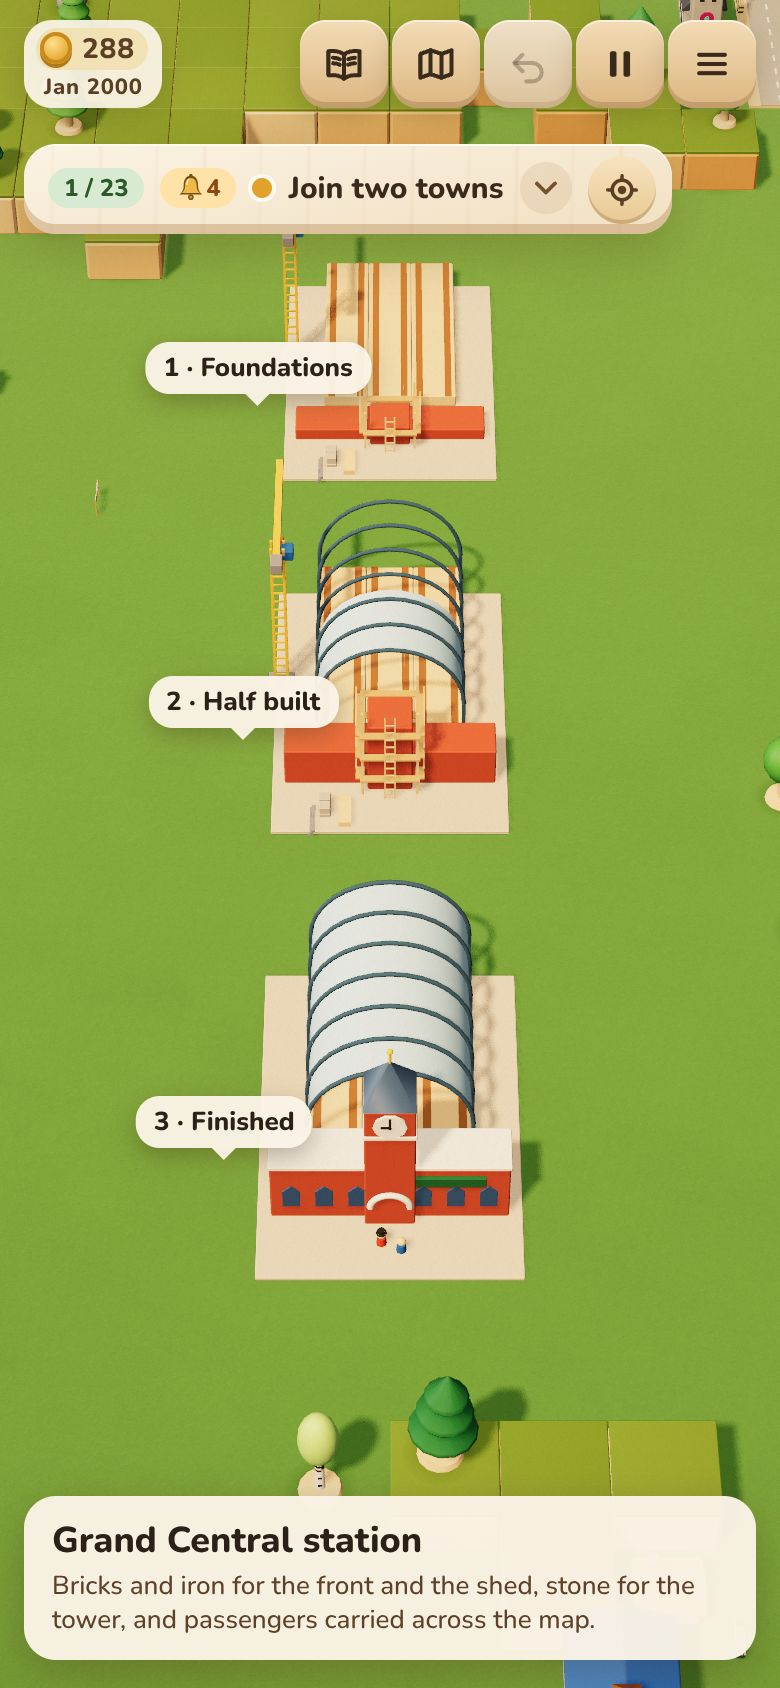
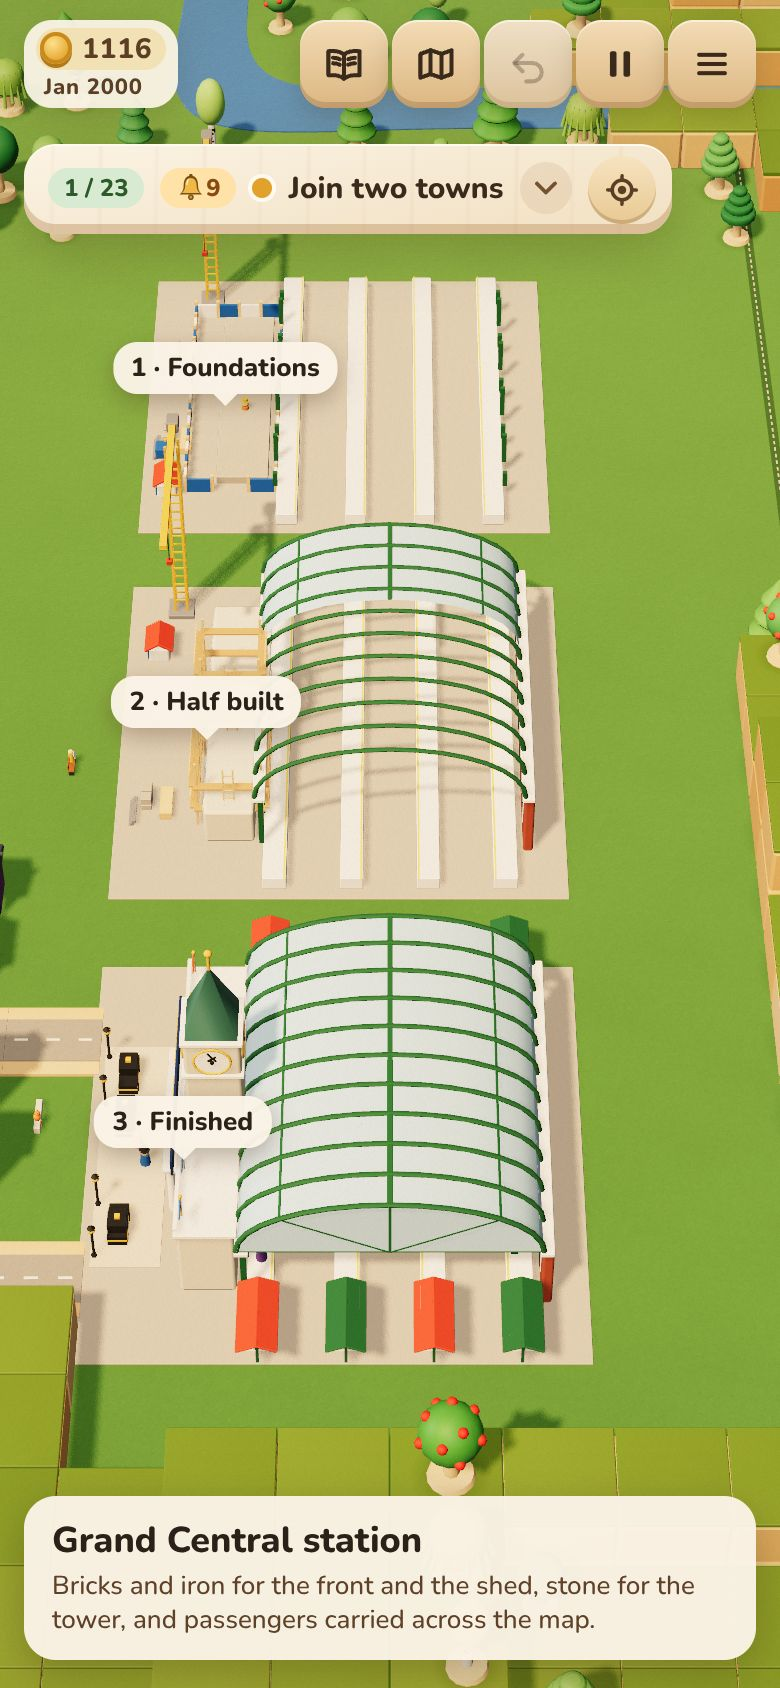
Grand Central as a grand through station, with trains running through it
Reworked in the town buildings' style: three tracks run along x through an
arched glass shed on green ironwork (open below its end screens, nothing
within 24 mm of a track centre), four platforms with pitched canopies,
benches and departure boards; a stone building alongside with columns, a
great arched entrance, GRAND CENTRAL in gold block letters, flags and a
clock tower with four faces; a forecourt with cabs and lamps. Stages
4,644 / 6,648 / 13,972 triangles (budget 14,000).

Shots (tools/shots/design-assets.mjs ONLY=central): real track laid
through it, two trains passing, a close-up, the platforms' end, in a city,
and its stages. npm test: 5404 passed.

Claude-Session: https://claude.ai/code/session_0121cKbiwrDuQSgNuQBEys2q

diff --git a/src/catalogue/assets/grand.ts b/src/catalogue/assets/grand.ts
@@ -492,59 +492,194 @@ function royalTrain(k: Kit, stage: Stage): Object3D {
   return g;
 }
 
-// ——— Grand Central: a station front with a clock tower, an arched train shed behind ———
+// ——— Grand Central: a through station, three tracks through a glass train shed, the station building alongside ———
+
+/**
+ * The tracks' centres across the shed (z), 60 apart: real track runs through along x (the model leaves room for it:
+ * nothing stands within 24 mm of a centre below the shed's springing), so trains drive in one end and out the other.
+ */
+export const CENTRAL_TRACKS = [-60, 0, 60] as const;
+/** The shed's length along x, and how far its platforms run past it either end. */
+const SHED = 260;
+const PLAT = 340;
+/** Platform tops: the town platforms' height (bldg_parts.py `platform`, 13 above the felt). */
+const PLAT_H = 14;
+
+/** Block letters, 4 × 5, by rows top down ('#' a block): enough for the station's name board. */
+const FONT: Record<string, string[]> = {
+  G: [".###", "#...", "#.##", "#..#", ".###"],
+  R: ["###.", "#..#", "###.", "#.#.", "#..#"],
+  A: [".##.", "#..#", "####", "#..#", "#..#"],
+  N: ["#..#", "##.#", "#.##", "#..#", "#..#"],
+  D: ["###.", "#..#", "#..#", "#..#", "###."],
+  C: [".###", "#...", "#...", "#...", ".###"],
+  E: ["####", "#...", "###.", "#...", "####"],
+  T: ["####", ".#..", ".#..", ".#..", ".#.."],
+  L: ["#...", "#...", "#...", "#...", "####"],
+};
+
+/** `text` in gold block letters on a wall facing +z, centred on x, its baseline at y; `px` the size of a block. */
+function goldLetters(k: Kit, text: string, x: number, y: number, z: number, px = 2.2): Group {
+  const g = new Group();
+  const gold = k.paint("#e3b23c");
+  const w = text.length * 5 * px - px;
+  let cx = x - w / 2;
+  for (const ch of text) {
+    const rows = FONT[ch];
+    if (rows)
+      rows.forEach((row, r) => {
+        // Each run of blocks in a row is one box.
+        for (let c = 0; c < 4; ) {
+          if (row[c] !== "#") {
+            c++;
+            continue;
+          }
+          let e = c;
+          while (e < 4 && row[e] === "#") e++;
+          g.add(k.box(gold, (e - c) * px, px, 1.2, 0, cx + ((c + e) / 2) * px, y + (4 - r) * px, z));
+          c = e;
+        }
+      });
+    cx += 5 * px;
+  }
+  return g;
+}
+
+/** A clock face facing +x at (x, y, z): a cream face, a gold rim, black hands at ten to two. */
+function clockFace(k: Kit, r: number, x: number, y: number, z: number, ry = 0): Group {
+  const g = new Group();
+  g.add(k.cylX(k.paint(FRAME), r, 1.6, 0, 0, 0, 16), k.at(k.ring(k.paint("#e3b23c"), r, 1, 0, 0, 0, true), 0.8, 0, 0, Math.PI / 2));
+  const minute = k.box(k.paint(TOY.black), 1, r * 0.8, 1.2, 0, 1.2, 0, 0);
+  minute.geometry.translate(0, r * 0.4 - (r * 0.8) / 2, 0);
+  minute.rotation.x = 0.6;
+  const hour = k.box(k.paint(TOY.black), 1, r * 0.55, 1.4, 0, 1.2, 0, 0);
+  hour.geometry.translate(0, r * 0.27 - (r * 0.55) / 2, 0);
+  hour.rotation.x = -0.9;
+  g.add(minute, hour, k.cylX(k.paint(TOY.black), 1.4, 2, 1.4, 0, 0, 8));
+  return k.at(g, x, y, z, ry);
+}
+
+/** A toy cab: a black body with a yellow band, a roof light, four wheels; facing +x. */
+function cab(k: Kit, x: number, z: number, ry = 0): Group {
+  const g = new Group();
+  g.add(k.box(k.paint(TOY.black), 30, 9, 14, 0, 0, 3, 0), k.box(k.paint(TOY.black), 16, 8, 13, 0, -3, 12, 0));
+  g.add(k.box(k.paint(TOY.yellow), 30.4, 2, 14.4, 0, 0, 7, 0), k.box(k.paint(TOY.yellow), 4, 2, 4, 0, -3, 20, 0));
+  for (const s of [-1, 1]) g.add(k.box(k.paint("#2b3644"), 13, 5, 0.6, 0, -3, 13.5, s * 6.8));
+  for (const wx of [-9, 9]) for (const s of [-1, 1]) g.add(k.cylZ(k.paint("#2a2b2e"), 3.6, 2, wx, 3.6, s * 6.4, 10));
+  return k.at(g, x, 0, z, ry);
+}
+
+/** A station bench, facing +z. */
+function bench(k: Kit, x: number, y: number, z: number, ry = 0): Group {
+  const g = new Group();
+  g.add(k.box(k.wood, 14, 1.4, 5, 0, 0, 5, 0), k.box(k.wood, 14, 5, 1.2, 0, 0, 6.4, -2.4));
+  for (const s of [-1, 1]) g.add(k.box(k.paint(IRON), 1.2, 5, 5, 0, s * 6, 0, 0));
+  return k.at(g, x, y, z, ry);
+}
+
+/** A departure board on two posts: dark, with lines in amber. */
+function departures(k: Kit, x: number, y: number, z: number): Group {
+  const g = new Group();
+  for (const s of [-1, 1]) g.add(k.box(k.paint(IRON), 1.6, 24, 1.6, 0, 0, 0, s * 9));
+  g.add(k.box(k.paint("#1d2430"), 3, 12, 22, 0, 0, 22, 0));
+  for (let i = 0; i < 3; i++) for (const s of [-1, 1]) g.add(k.box(k.paint("#f2b233"), 3.4, 1.2, 8, 0, 0, 25 + i * 3, s * 5));
+  return k.at(g, x, y, z);
+}
 
 function grandCentral(k: Kit, stage: Stage): Object3D {
   const g = new Group();
-  const pane = k.paint(GLASS);
-  const brick = k.paint("#b5553c");
-  const stone = k.paint(TOY.cream);
-  const iron = k.paint("#3e5f78");
-  const SHED = 200;
-  const SW = 120;
-  g.add(plinth(k, SHED + 80, SW + 70, 4, -30, 0, "#cdbfa8"));
-  // Three tracks run through the shed along x (slabs: the real pieces would sit here).
-  for (const z of [-40, 0, 40]) g.add(k.trackSlab(SHED, -SHED / 2 + 10, 4, z));
-  for (const z of [-20, 20]) g.add(k.box(stone, SHED - 20, 8, 16, 1, -SHED / 2 + 20, 4, z));
-  // The front building across the tracks' ends (facing +x), the clock tower in the middle.
-  const FH = stage === 1 ? 12 : stage === 2 ? 36 : 54;
-  const fx = 40;
-  g.add(k.box(brick, 34, FH, SW + 50, 1.5, fx, 4, 0));
-  const TH = stage === 1 ? 20 : stage === 2 ? 70 : 128;
-  g.add(k.box(brick, 36, TH, 36, 1.5, fx + 6, 4, 0));
-  if (stage === 3) {
-    g.add(k.box(stone, 36, 4, SW + 52, 1, fx, 4 + FH, 0));
-    for (let i = 0; i < 7; i++) {
-      const z = -SW / 2 - 10 + i * ((SW + 20) / 6);
-      if (Math.abs(z) < 22) continue;
-      g.add(k.extrude(k.paint("#3d5d86"), [[-6, 0], [6, 0], [6, 16], [0, 22], [-6, 16]], 2, 0, 0, 0, 0.3).rotateY(Math.PI / 2).translateZ(fx + 17).translateY(18).translateX(-z));
-    }
-    // The tower: clock faces, a stone band, a pyramid roof and a gilt finial.
-    g.add(k.box(stone, 38, 4, 38, 1, fx + 6, 4 + TH - 30, 0));
-    const clock = new Group();
-    clock.add(k.cylX(stone, 12, 2, 0, 0, 0, 20), k.cylX(k.paint(TOY.black), 1.2, 3, 0.4, 0, 0, 8));
-    clock.add(named(k.box(k.paint(TOY.black), 1, 10, 1.6, 0, 1.6, 0, 0), "minute"));
-    clock.add(named(k.box(k.paint(TOY.black), 1, 1.6, 7, 0, 1.6, 0, 3), "hour"));
-    g.add(k.at(clock, fx + 25, 4 + TH - 14, 0));
-    g.add(k.cone(k.paint("#4f6a8a"), 26, 34, fx + 6, 4 + TH, 0, 4).rotateY(Math.PI / 4));
-    g.add(k.cyl(k.paint(TOY.yellow), 1, 10, fx + 6, 4 + TH + 32, 0, 1, 6), k.ball(k.paint(TOY.yellow), 2.4, fx + 6, 4 + TH + 44, 0));
-    // The great arch over the entrance, and the sign.
-    g.add(k.at(k.ring(stone, 14, 2.6, 0, 0, 0, true, Math.PI), fx + 25, 4 + 22, 0, Math.PI / 2));
-    g.add(k.box(k.paint(TOY.green), 4, 10, 60, 1, fx + 18, 4 + FH - 16, -SW / 2 + 22));
-    g.add(k.peg(TOY.red, TOY.black, fx + 40, 0, 6), k.peg(TOY.blue, null, fx + 46, 0, -8));
-  } else {
-    g.add(scaffold(k, 44, 44, TH + 24, fx + 6, 0));
-    g.add(towerCrane(k, 150, 120, -60, SW / 2 + 30, Math.PI));
-    g.add(goodsStacks(k, fx + 50, 50));
+  const stone = k.paint("#e2d8c4");
+  const trim = k.paint(FRAME);
+  const iron = k.paint(IRON);
+  const brick = k.paint("#a8553a");
+  const SPRING = 62; // the shed's sides: trains (about 50 tall) run under its ends' glass screens
+  const SW = 210; // the shed's span across z
+  const BZ = SW / 2 + 22; // the building's middle (z), alongside the shed
+  // The ground: a stone step under the whole of it, the forecourt beyond the building.
+  g.add(k.box(k.paint(STONE), PLAT + 20, 2, SW + 150, 0.8, 0, 0, 40));
+  // Platforms between and beside the tracks (none on a track: they stop 21 short of each centre).
+  const platZ = [-90.5, -30, 30, 90.5];
+  const platW = [19, 18, 18, 19];
+  platZ.forEach((z, i) => g.add(k.box(trim, PLAT, PLAT_H - 2, platW[i], 1, 0, 2, z), k.box(k.paint("#f2d34a"), PLAT, 0.6, 1.4, 0, 0, PLAT_H, z + (z < 0 ? platW[i] / 2 - 1.6 : -(platW[i] / 2 - 1.6)))));
+  if (stage === 1) {
+    // The platforms laid, the shed's columns started, the building's footings; a fence round the building side.
+    for (let i = 0; i <= 8; i++) for (const s of [-1, 1]) g.add(k.box(iron, 4, i % 2 ? 30 : 14, 4, 0, -SHED / 2 + (SHED * i) / 8, PLAT_H, s * (SW / 2 - 4)));
+    g.add(k.box(k.paint(STONE), 230, 8, 46, 1, 0, 2, BZ + 4));
+    g.add(siteFence(k, 250, 80, 0, BZ + 14));
+    g.add(goodsStacks(k, -60, BZ + 70), goodsStacks(k, 60, BZ + 70), siteHut(k, 120, BZ + 70));
+    g.add(towerCrane(k, 160, 140, -150, BZ + 40, 0));
+    g.add(k.peg(TOY.orange, TOY.yellow, 20, 2, BZ + 4), k.peg(TOY.orange, TOY.yellow, -30, 2, BZ + 10));
+    return g;
   }
-  // The train shed: iron ribs, glass over what's done.
-  if (stage >= 2) {
-    const top = 4 + 34;
-    for (const s of [-1, 1]) for (let i = 0; i <= 6; i++) g.add(stick(k, iron, 3, 34, 3, -SHED + 20 + (i * (SHED - 20)) / 6, 4, (s * SW) / 2));
-    g.add(ribs(k, iron, SW / 2, SHED - 20, 7, -SHED / 2 + 10, top, 0, 1.8));
-    const done = stage === 3 ? SHED - 20 : (SHED - 20) * 0.4;
-    g.add(vault(k, pane, SW / 2 - 1, done, -SHED / 2 + 10 + (SHED - 20) / 2 - done / 2, top, 0, 14));
+  // The shed's sides: a brick wall on the far side with arched windows, iron columns on the building side.
+  g.add(k.box(brick, SHED, SPRING - 2, 8, 2, 0, 2, -SW / 2 - 4));
+  for (let i = 0; i < 8; i++) g.add(winZ(k, -SHED / 2 + 18 + i * ((SHED - 36) / 7), 24, -SW / 2 + 0.4, 10, 22));
+  for (let i = 0; i <= 8; i++) g.add(k.box(iron, 4, SPRING - PLAT_H, 4, 0, -SHED / 2 + (SHED * i) / 8, PLAT_H, SW / 2 - 4));
+  g.add(k.box(trim, SHED + 6, 4, 10, 1, 0, SPRING - 2, -SW / 2 - 3), k.box(trim, SHED + 6, 4, 10, 1, 0, SPRING - 2, SW / 2 - 3));
+  // The arched glass roof: a flatter arch than a half round (segmental), on green ribs; glass ends above the trains.
+  const roof = new Group();
+  roof.add(glassVault(k, SW / 2, SHED, 0, 0, 0, stage >= 3 ? SHED : SHED * 0.35));
+  if (stage >= 3) roof.add(vaultEnd(k, SW / 2, -SHED / 2, 0), vaultEnd(k, SW / 2, SHED / 2, 0));
+  roof.scale.set(1, 0.5, 1);
+  roof.position.y = SPRING + 2;
+  g.add(roof);
+  // The station building alongside, facing +z: stone, two storeys of windows, a cornice and a balustrade.
+  const BW = 240;
+  const BH = stage >= 3 ? 64 : 34;
+  g.add(k.box(stone, BW, BH, 40, 3, 0, 2, BZ));
+  const front = BZ + 20;
+  for (let i = 0; i < 10; i++) {
+    const wx = -BW / 2 + 16 + i * ((BW - 32) / 9);
+    if (Math.abs(wx) < 30) continue;
+    g.add(winZ(k, wx, 12, front + 0.4, 10, 16));
+    if (stage >= 3) g.add(winZ(k, wx, 40, front + 0.4, 10, 14));
   }
+  if (stage === 2) {
+    g.add(scaffold(k, 120, 52, 70, 40, BZ));
+    g.add(scaffold(k, 46, 46, 110, 0, BZ));
+    g.add(towerCrane(k, 180, 150, -150, BZ + 50, 0), goodsStacks(k, 80, BZ + 66), siteHut(k, -100, BZ + 66));
+    return g;
+  }
+  g.add(k.box(trim, BW + 4, 4, 44, 1, 0, 2 + BH, BZ));
+  for (let i = 0; i < 24; i++) g.add(k.box(trim, 2, 6, 2, 0, -BW / 2 + 5 + i * ((BW - 10) / 23), 6 + BH, front));
+  g.add(k.box(trim, BW + 4, 2, 3, 0, 0, 12 + BH, front));
+  // The portico: columns either side of the great arched entrance, a pediment over it.
+  for (const cx2 of [-48, -36, -24, 24, 36, 48]) g.add(k.cyl(trim, 3, 46, cx2, 2, front + 8, 3, 10), k.box(trim, 8, 3, 8, 0, cx2, 48, front + 8));
+  g.add(k.box(trim, 108, 6, 14, 1, 0, 50, front + 6));
+  g.add(k.extrude(trim, [[-56, 0], [56, 0], [0, 18]], 12, 0, 0, front + 6, 0).translateY(56));
+  g.add(k.extrude(k.paint("#2b3644"), [[-14, 0], [14, 0], [14, 22], [10, 30], [0, 34], [-10, 30], [-14, 22]], 1.4, 0, 2, front + 0.8, 0));
+  g.add(k.at(k.ring(k.paint("#e3b23c"), 15, 1.4, 0, 0, 0, true, Math.PI), 0, 24, front + 1.4));
+  // The name in gold letters on a dark board above the entrance.
+  g.add(k.box(k.paint("#1f3f73"), 150, 16, 2, 0.6, 0, 76, front + 4));
+  g.add(goldLetters(k, "GRAND CENTRAL", 0, 79.5, front + 5.2, 2));
+  // The clock tower over the entrance: four faces, a belfry, a spire and a gilt finial; flags.
+  const TX = 0, TZ = BZ - 4, TW = 40, TH = 150;
+  g.add(k.box(stone, TW, TH, TW, 3, TX, 2, TZ));
+  g.add(k.box(trim, TW + 4, 4, TW + 4, 1, TX, TH - 34, TZ), k.box(trim, TW + 4, 4, TW + 4, 1, TX, TH, TZ));
+  for (const [dx, dz, ry] of [[TW / 2, 0, 0], [-TW / 2, 0, Math.PI], [0, TW / 2, -Math.PI / 2], [0, -TW / 2, Math.PI / 2]] as const) g.add(clockFace(k, 13, TX + dx, TH - 16, TZ + dz, ry));
+  g.add(k.cone(k.paint("#3f6f63"), TW / 2 + 6, 56, TX, TH + 4, TZ, 4).rotateY(Math.PI / 4));
+  g.add(k.cyl(k.paint("#e3b23c"), 1.2, 14, TX, TH + 58, TZ, 1.2, 6), k.ball(k.paint("#e3b23c"), 3, TX, TH + 74, TZ));
+  for (const fx of [-BW / 2 + 10, -70, 70, BW / 2 - 10]) g.add(pennant(k, fx < 0 ? TOY.red : TOY.blue, 20, fx, 14 + BH, front - 4));
+  // Canopies over the platforms' ends outside the shed, with benches, a departure board, passengers.
+  for (const end of [-1, 1]) {
+    const ex = end * (SHED / 2 + 36);
+    platZ.forEach((z, i) => {
+      const w = platW[i];
+      for (const px of [-20, 20]) g.add(k.box(iron, 2, 24, 2, 0, ex + px, PLAT_H, z));
+      g.add(k.box(iron, 52, 2, 2, 0, ex, PLAT_H + 23, z));
+      g.add(k.roof(k.paint(i % 2 ? TOY.red : TOY.green), 58, w + 8, 6, ex, PLAT_H + 24, z, 2));
+    });
+  }
+  g.add(departures(k, 0, PLAT_H, -30), departures(k, 0, PLAT_H, 30));
+  for (const [x, z] of [[-60, -30], [60, -30], [-60, 30], [60, 30], [-90, 90.5], [90, -90.5]] as const) g.add(bench(k, x, PLAT_H, z + (z > 0 ? -3 : 3), z > 0 ? 0 : Math.PI));
+  const coats = [TOY.red, TOY.blue, TOY.yellow, TOY.purple, TOY.green, TOY.pink, TOY.orange];
+  [[-40, -32], [40, 28], [46, 33], [100, 90], [-20, -29]].forEach(([x, z], i) => g.add(k.peg(coats[i % coats.length], i % 3 === 0 ? TOY.black : null, x, PLAT_H, z)));
+  // The forecourt: paving, lamp posts, cabs waiting, people coming and going.
+  const FZ = front + 40;
+  g.add(k.box(k.paint("#d9cdb6"), 200, 1, 50, 0.4, 0, 2, FZ));
+  for (const lx of [-90, -45, 45, 90]) g.add(lampPost(k, lx, 2, FZ + 22));
+  g.add(cab(k, -70, FZ + 6, 0), cab(k, -30, FZ + 6, 0), cab(k, 66, FZ + 6, Math.PI));
+  g.add(k.peg(TOY.blue, TOY.black, 8, 2, FZ - 10), k.peg(TOY.pink, null, -8, 2, FZ - 4));
   return g;
 }
 
@@ -672,8 +807,8 @@ export const PROJECTS: readonly Project[] = [
   {
     id: "grand-central",
     name: "Grand Central station",
-    tags: ["grand project", "station", "clock tower", "train shed", "terminus"],
-    notes: "A brick front with a tall clock tower and an arched glass train shed over three tracks. A grand project for a big network: bricks, iron and glass (stone), and passengers carried. Its day: every line's trains meet under the clock.",
+    tags: ["grand project", "station", "clock tower", "train shed", "through station"],
+    notes: "A through station: three tracks run through an arched glass train shed on green ironwork, platforms between them with canopies, benches and a departure board; alongside, a stone building with columns, a great arched entrance, the name in gold letters, flags, and a clock tower with four faces; cabs and lamps on the forecourt. A grand project for a big network: bricks, iron, stone and glass, and passengers carried. Its day: every line's trains meet under the clock.",
     build: grandCentral,
     stages: 3,
   },

diff --git a/docs/superpowers/specs/2026-11-05-character-and-goals.md b/docs/superpowers/specs/2026-11-05-character-and-goals.md
@@ -259,7 +259,7 @@ Every town keeps the plain ones. The paint shop offers the path's colours as liv
 | Grand Exhibition hall (town buildings' style; stage 4 "opening day": gates with a crest, a crystal fountain, statues, elms, stands, bunting, an arched clock) | 4,344 | 5,784 | 9,688 | 13,576 |
 | Cathedral (reworked: aisles, flying buttresses, transept, apse, twin west towers, crossing spire, rose windows; drawn 1.2×; stage 4 stained glass) | 5,016 | 6,112 | 6,472 | 7,996 |
 | Royal Train (display at the works: frames, bare wood, finished) | 2,616 | 6,380 | 7,216 | |
-| Grand Central station | 2,628 | 4,378 | 3,850 | |
+| Grand Central station (reworked as a **through station**: three tracks through an arched glass shed, four platforms with canopies, benches and departure boards; a stone building alongside with columns, an arched entrance, "GRAND CENTRAL" in gold block letters, flags and a four-faced clock tower; a forecourt with cabs and lamps) | 4,644 | 6,648 | 13,972 | |
 | World's Fair wheel (animated: turns, gondolas stay level) | 2,304 | 2,756 | 4,900 | |
 
 **The Royal Train's cars** (`src/catalogue/assets/royal-train.ts`):
@@ -313,6 +313,12 @@ the found ones because of the overgrowth: bushes are balls.)
 - **Grand projects:** for `exhibition`, `cathedral`, `royal-train`, `central`, `ferris-wheel`:
   - `docs/agents/shots/grand-<name>-stages.jpg`: every stage on the map (the four-stage ones in a 2 × 2 grid);
   - `grand-<name>.jpg`: a close-up, finished.
+- **Grand Central with trains:**
+  - `docs/agents/shots/grand-central-trains.jpg`: two trains passing through, one coming out and one going in;
+  - `grand-central.jpg`: the clock tower, the gold name and the forecourt;
+  - `grand-central-platforms.jpg`: a train coming in under the end canopies;
+  - `grand-central-city.jpg`: beside a city;
+  - `grand-central-stages.jpg`: its three stages.
 - **In context:** `grand-exhibition-city.jpg`, `grand-cathedral-city.jpg` and `grand-royal-train-city.jpg` show each
   beside a city or on the line out of it. `grand-royal-train-track.jpg` is the train on real track, close.
 - **Secrets:** `docs/agents/shots/secret-<name>.jpg` shows the site hidden and found side by side, a train arriving
@@ -339,7 +345,10 @@ the found ones because of the overgrowth: bushes are balls.)
 - The shipwreck's hull reads as open ribs more than a hull.
 - The Royal Train's display model (the stages) stands on its own track piece. The cars themselves are car-ready (see
   above).
-- Grand Central and the wheel are still in the first, plainer style.
+- The wheel is still in the first, plainer style.
+- Grand Central's tracks are real track laid through it (`CENTRAL_TRACKS`: three lines 60 apart along x). The model
+  keeps out of their way below the shed's springing (62 mm, above the trains). In the game it would be a kit piece
+  carrying its own three tracks, as the two-platform station is.
 
 ## 1. Town character
 
